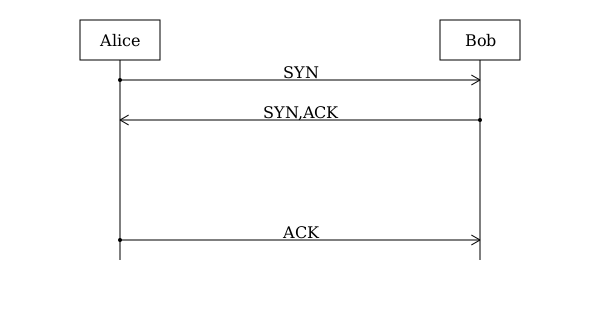
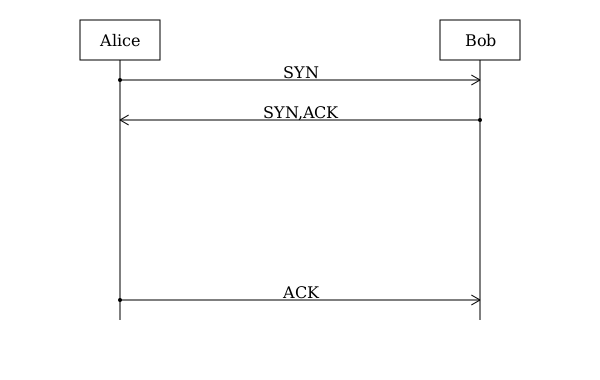
docs: update examples

Changed region(s): [[0.12, 0.0312, 0.87, 0.4062], [0.18, 0.6875, 0.81, 0.8438]]

diff --git a/docs/examples.html b/docs/examples.html
@@ -24,8 +24,10 @@
 <li><a href='#double_arrow.msq'>05_double_arrow.msq</a></li>
 <li><a href='#message_lost.msq'>06_message_lost.msq</a></li>
 <li><a href='#crossing.msq'>07_crossing.msq</a></li>
+<li><a href='#timeout.msq'>08_timeout.msq</a></li>
 <li><a href='#layout.msq'>15_layout.msq</a></li>
 <li><a href='#decoration.msq'>16_decoration.msq</a></li>
+<li><a href='#utf8.msq'>17_utf8.msq</a></li>
 <li><a href='#include.msq'>20_include.msq</a></li>
 </ul>
 </li>
@@ -66,12 +68,10 @@ actor a Alice
 actor b Bob
 
 [scenario]
+b -box ready
 a -&gt; b SYN
-:
-:
-b -box computing...
-:
-:
+b -box &quot;computing...\n(step 1)&quot;
+b -box &quot;computing...\n(step 2)&quot;
 a &lt;- b SYN,ACK
 a -&gt; b ACK</code></pre>
 <div class="figure">
@@ -95,14 +95,16 @@ a -&gt; b ACK</code></pre>
 <h2 id="double_arrow.msq">05_double_arrow.msq</h2>
 <pre><code>[init]
 actor a Alice
-actor &quot;&quot;
-actor &quot;&quot;
 actor b Bob
+actor c Charlie
+actor d David
+actor e Emily
 
 [scenario]
 :
-:
-a &lt;-&gt; b Handshake
+c &lt;-&gt; b Exchange\nkeys
+d &lt;-&gt; e Exchange\nkeys
+a &lt;-&gt; d Exchange\nkeys
 :</code></pre>
 <div class="figure">
 <img src="examples/05_double_arrow.png" />
@@ -132,10 +134,25 @@ actor b Bob
 [scenario]
 a -&gt; b msg-x goto=L1
 a &lt;- b msg-y goto=L1
-:L1
-:</code></pre>
+:L1</code></pre>
 <div class="figure">
 <img src="examples/07_crossing.png" />
+
+</div>
+<h2 id="timeout.msq">08_timeout.msq</h2>
+<pre><code>[init]
+actor a Alice
+actor &quot;&quot;
+actor &quot;&quot;
+actor b Bob
+
+[scenario]
+a -&gt; b hello
+b -box ignore
+a -&gt; a timeout\n6s
+a -&gt; b &quot;I said hello!&quot;</code></pre>
+<div class="figure">
+<img src="examples/08_timeout.png" />
 
 </div>
 <h2 id="layout.msq">15_layout.msq</h2>
@@ -160,9 +177,9 @@ a -&gt; b ACK</code></pre>
 <pre><code>[init]
 actor a Alice color=blue
 actor b Bob
-font-family gentium
-font-size 15
-font-style italic
+font-family helvetica
+font-size 130%
+font-style bold
 
 [scenario]
 a -&gt; b SYN color=666 # grey
@@ -173,6 +190,18 @@ b -box waiting... bgcolor=yellow
 :</code></pre>
 <div class="figure">
 <img src="examples/16_decoration.png" />
+
+</div>
+<h2 id="utf8.msq">17_utf8.msq</h2>
+<pre><code>[init]
+actor a Alice
+actor b B&#233;r&#233;nice
+
+[scenario]
+a -&gt; b &quot;o&#249; vas-tu ?&quot;
+a &lt;- b &quot;au th&#233;&#226;tre&quot;</code></pre>
+<div class="figure">
+<img src="examples/17_utf8.png" />
 
 </div>
 <h2 id="include.msq">20_include.msq</h2>
@@ -200,7 +229,7 @@ a &lt;- b &quot;ok&quot;</code></pre>
 </div>
         </div> <!-- div class page -->
         <div class="footer">
-            Page updated on 17 May 2017
+            Page updated on 18 May 2017
         </div>
     </body>
 </html>

diff --git a/docs/examples.md b/docs/examples.md
@@ -34,12 +34,10 @@
 	actor b Bob
 	
 	[scenario]
+	b -box ready
 	a -> b SYN
-	:
-	:
-	b -box computing...
-	:
-	:
+	b -box "computing...\n(step 1)"
+	b -box "computing...\n(step 2)"
 	a <- b SYN,ACK
 	a -> b ACK
 	
@@ -63,14 +61,16 @@
 
 	[init]
 	actor a Alice
-	actor ""
-	actor ""
 	actor b Bob
+	actor c Charlie
+	actor d David
+	actor e Emily
 	
 	[scenario]
 	:
-	:
-	a <-> b Handshake
+	c <-> b Exchange\nkeys
+	d <-> e Exchange\nkeys
+	a <-> d Exchange\nkeys
 	:
 	
 ![](examples/05_double_arrow.png)
@@ -101,8 +101,23 @@
 	a -> b msg-x goto=L1
 	a <- b msg-y goto=L1
 	:L1
-	:
 ![](examples/07_crossing.png)
+
+## 08_timeout.msq
+
+	[init]
+	actor a Alice
+	actor ""
+	actor ""
+	actor b Bob
+	
+	[scenario]
+	a -> b hello
+	b -box ignore
+	a -> a timeout\n6s
+	a -> b "I said hello!"
+	
+![](examples/08_timeout.png)
 
 ## 15_layout.msq
 
@@ -127,9 +142,9 @@
 	[init]
 	actor a Alice color=blue
 	actor b Bob
-	font-family gentium
-	font-size 15
-	font-style italic
+	font-family helvetica
+	font-size 130%
+	font-style bold
 	
 	[scenario]
 	a -> b SYN color=666 # grey
@@ -140,6 +155,17 @@
 	:
 	
 ![](examples/16_decoration.png)
+
+## 17_utf8.msq
+
+	[init]
+	actor a Alice
+	actor b Bérénice
+	
+	[scenario]
+	a -> b "où vas-tu ?"
+	a <- b "au théâtre"
+![](examples/17_utf8.png)
 
 ## 20_include.msq
 
